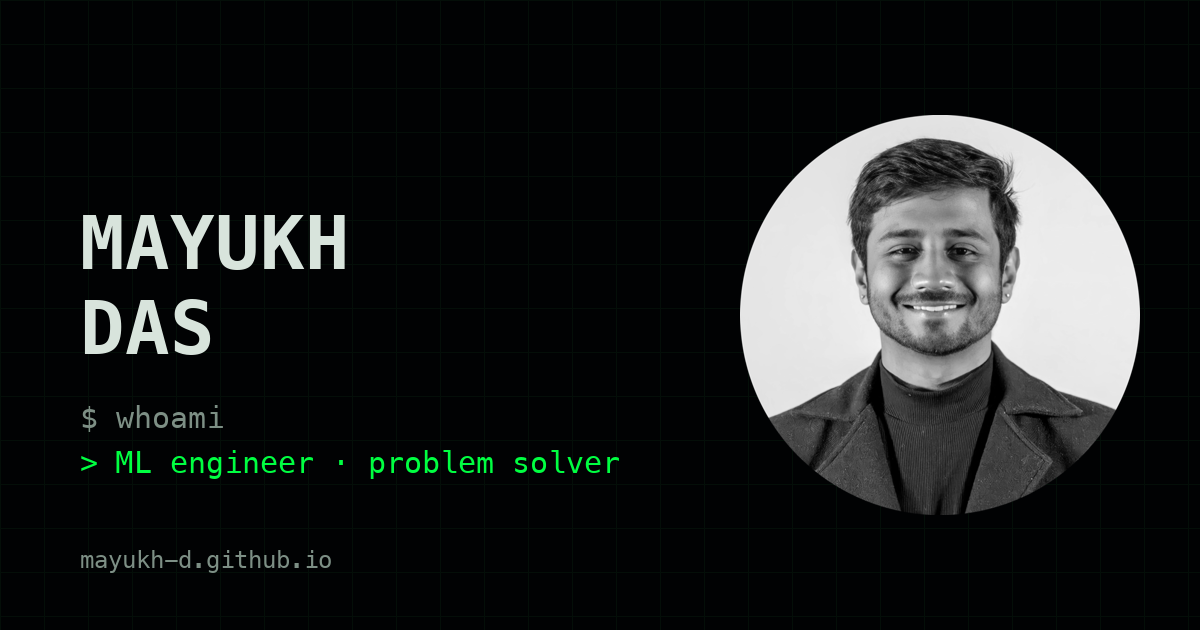
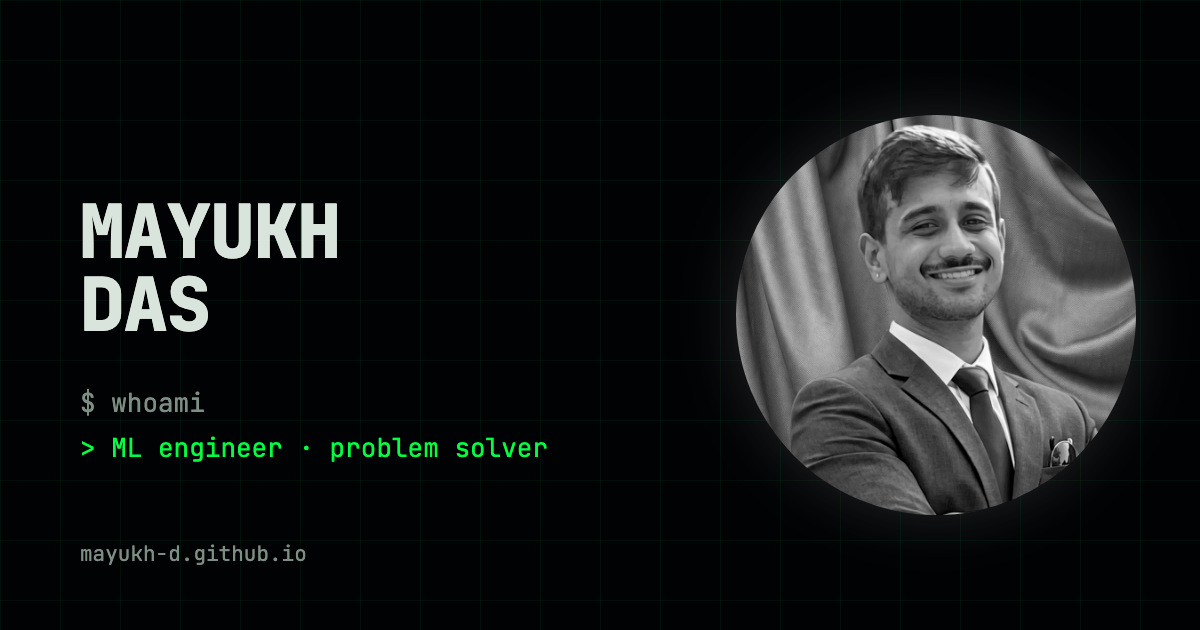
New portrait, mobile contact link, skills after about
- hero and share card use the new portrait, cropped to head-and-shoulders
  so the face is not lost inside the circular frame
- the portrait ships as JPEG rather than PNG: same crop was 1.2 MB as a
  PNG and 188 KB as a JPEG, and it is a photograph
- mobile nav shows only /contact; seven links never fit, and hiding the
  lot meant no navigation at all on a phone
- skills moves from between projects and beyond to directly after about

diff --git a/index.html b/index.html
@@ -429,7 +429,9 @@
     footer .ok { color: var(--green); }
 
     @media (max-width: 640px) {
-      .nav-links { display: none; }
+      /* seven links will not fit on a phone; keep the one that matters */
+      .nav-links { display: flex; gap: 0; }
+      .nav-links a:not([href="#contact"]) { display: none; }
       .timeline-item { grid-template-columns: 1fr; gap: 4px; }
       section { padding: 56px 0; }
     }
@@ -457,7 +459,7 @@
   <header>
     <div class="hero-bigword" aria-hidden="true">WELCOME</div>
     <div class="hero-photo-wrap">
-      <img class="hero-photo" src="assets/mayukh.png" alt="Portrait of Mayukh Das">
+      <img class="hero-photo" src="assets/mayukh.jpg" width="900" height="900" alt="Portrait of Mayukh Das">
     </div>
     <h1 class="hero-name"><span class="glitch" data-text="MAYUKH DAS">MAYUKH DAS</span></h1>
     <p class="hero-type mono"><span class="prompt">$ whoami&nbsp;&nbsp;»&nbsp;</span><span id="typed"></span><span class="cursor"></span></p>
@@ -507,6 +509,38 @@
         that <strong>democratise machine learning</strong>: from national-scale AI capability to
         creative solutions for problems in grassroots communities.
       </p>
+    </div>
+  </section>
+
+  <section id="skills">
+    <div class="container">
+      <h2>skills</h2>
+      <div class="skills-list">
+        <span class="skill">Python</span>
+        <span class="skill">Java</span>
+        <span class="skill">C#</span>
+        <span class="skill">JavaScript</span>
+        <span class="skill">SQL</span>
+        <span class="skill">PyTorch</span>
+        <span class="skill">scikit-learn</span>
+        <span class="skill">Deep Learning</span>
+        <span class="skill">Transformers</span>
+        <span class="skill">Diffusion Models</span>
+        <span class="skill">LLMs</span>
+        <span class="skill">Explainable AI</span>
+        <span class="skill">React</span>
+        <span class="skill">Node</span>
+        <span class="skill">.NET</span>
+        <span class="skill">HCI</span>
+        <span class="skill">Git</span>
+        <span class="skill">Jupyter</span>
+        <span class="skill">LLM APIs</span>
+        <span class="skill">REST APIs</span>
+        <span class="skill">Solution Architecture</span>
+        <span class="skill">Cloud Architecture</span>
+        <span class="skill">Agile</span>
+        <span class="skill">Hadoop</span>
+      </div>
     </div>
   </section>
 
@@ -746,37 +780,6 @@
     </div>
   </section>
 
-  <section id="skills">
-    <div class="container">
-      <h2>skills</h2>
-      <div class="skills-list">
-        <span class="skill">Python</span>
-        <span class="skill">Java</span>
-        <span class="skill">C#</span>
-        <span class="skill">JavaScript</span>
-        <span class="skill">SQL</span>
-        <span class="skill">PyTorch</span>
-        <span class="skill">scikit-learn</span>
-        <span class="skill">Deep Learning</span>
-        <span class="skill">Transformers</span>
-        <span class="skill">Diffusion Models</span>
-        <span class="skill">LLMs</span>
-        <span class="skill">Explainable AI</span>
-        <span class="skill">React</span>
-        <span class="skill">Node</span>
-        <span class="skill">.NET</span>
-        <span class="skill">HCI</span>
-        <span class="skill">Git</span>
-        <span class="skill">Jupyter</span>
-        <span class="skill">LLM APIs</span>
-        <span class="skill">REST APIs</span>
-        <span class="skill">Solution Architecture</span>
-        <span class="skill">Cloud Architecture</span>
-        <span class="skill">Agile</span>
-        <span class="skill">Hadoop</span>
-      </div>
-    </div>
-  </section>
 
   <section id="beyond">
     <div class="container">
@@ -1102,7 +1105,6 @@
   window.addEventListener('resize', function () { resize(); if (mq.matches) draw(0); });
   if (mq.matches) draw(0); else requestAnimationFrame(frame);
 })();
-
 
   /* ---------- Mirage 2000 wireframe hologram ---------- */
   (function () {
